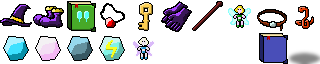
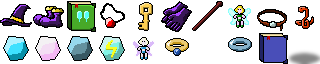
ADD Ice ring
No implementation yet

Changed region(s): [[0.6875, 0.5625, 0.8125, 0.8125], [0.5, 0.5938, 0.5938, 0.875]]

diff --git a/src/Items.h b/src/Items.h
@@ -62,7 +62,8 @@ enum enumItemType
   ItemGemIllusion,
   ItemGemStone,
   ItemGemLightning,
-  ItemFairyIce
+  ItemFairyIce,
+  ItemRingIce
 };
 
 const int FirstEquipItem = (int) ItemMagicianHat; /*!< Used as an offset when creating items */
@@ -90,7 +91,7 @@ struct itemStuct
   enumShotType specialShot;     /**< Special shot */
 };
 
-const int NUMBER_ITEMS = 20;  /*!< Total number of items */
+const int NUMBER_ITEMS = 21;  /*!< Total number of items */
 /** Array with all the items and data */
 const itemStuct items[NUMBER_ITEMS] =
 {
@@ -173,10 +174,14 @@ const itemStuct items[NUMBER_ITEMS] =
   {
     ItemFairyIce, "Ice Fairy", "Help you in the dungeon",
     40, true, FamiliarFairyIce, false, true, true, 1, RarityUnommon, AlignmentNone, -1, ShotTypeStandard
+  },
+  {
+    ItemRingIce, "Sapphire Ring", "Increases ice power",
+    40, true, FamiliarNone, true, true, true, 1, RarityUnommon, AlignmentNone, ItemGemIce, ShotTypeStandard
   }
 };
 
-const int NUMBER_EQUIP_ITEMS = 15;  /*!< Number of equip items */
+const int NUMBER_EQUIP_ITEMS = 16;  /*!< Number of equip items */
 /** Item equipment type enum
  *  All the equipments.
  */
@@ -195,7 +200,8 @@ enum item_equip_enum {
   EQUIP_GEM_ILLUSION,
   EQUIP_GEM_STONE,
   EQUIP_GEM_LIGHTNING,
-  EQUIP_FAIRY_ICE
+  EQUIP_FAIRY_ICE,
+  EQUIP_RING_ICE
   };
 
 #endif
